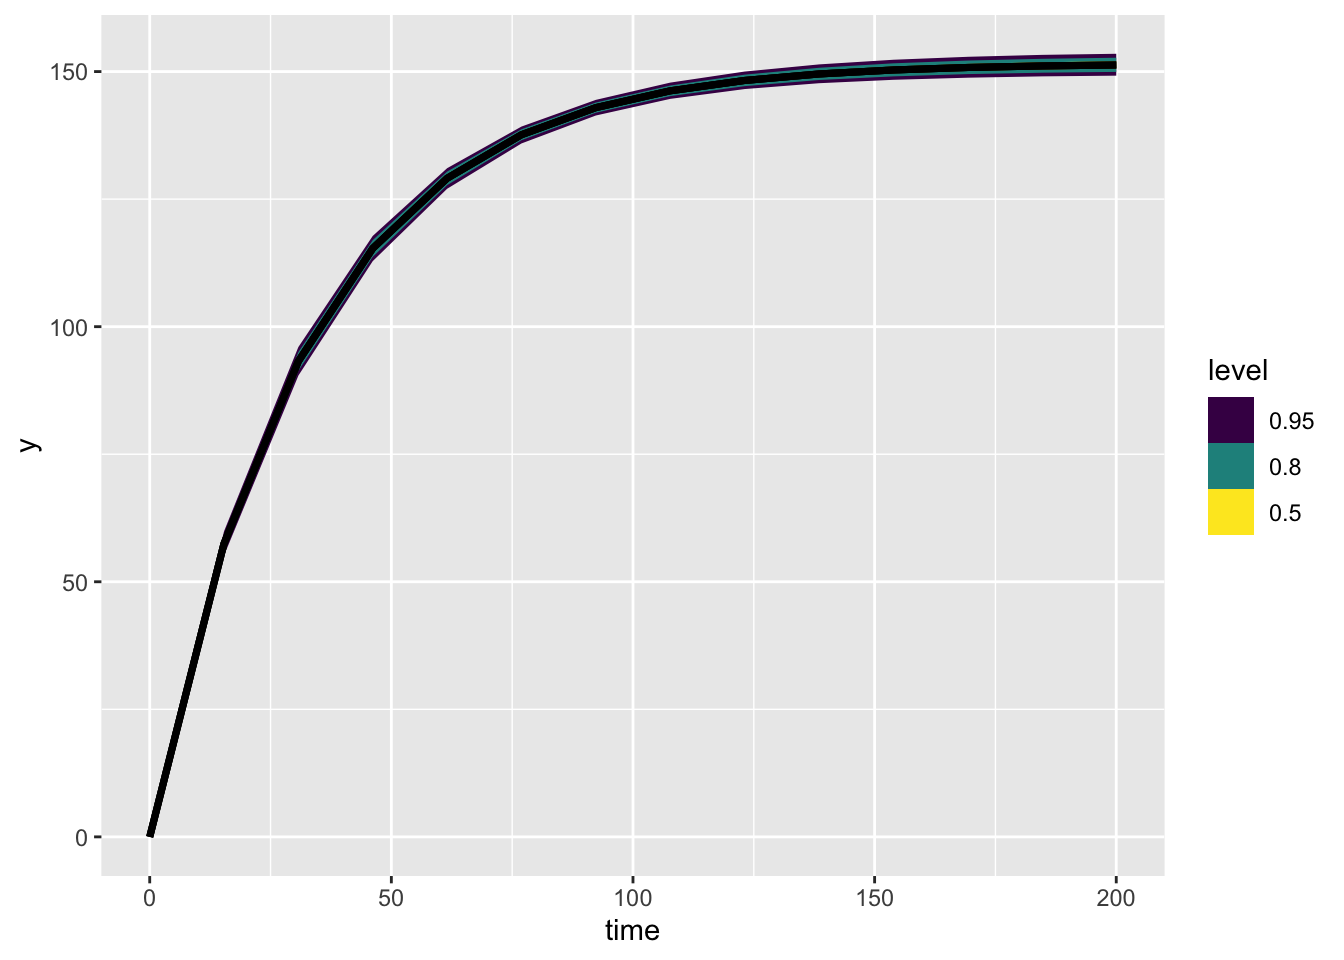
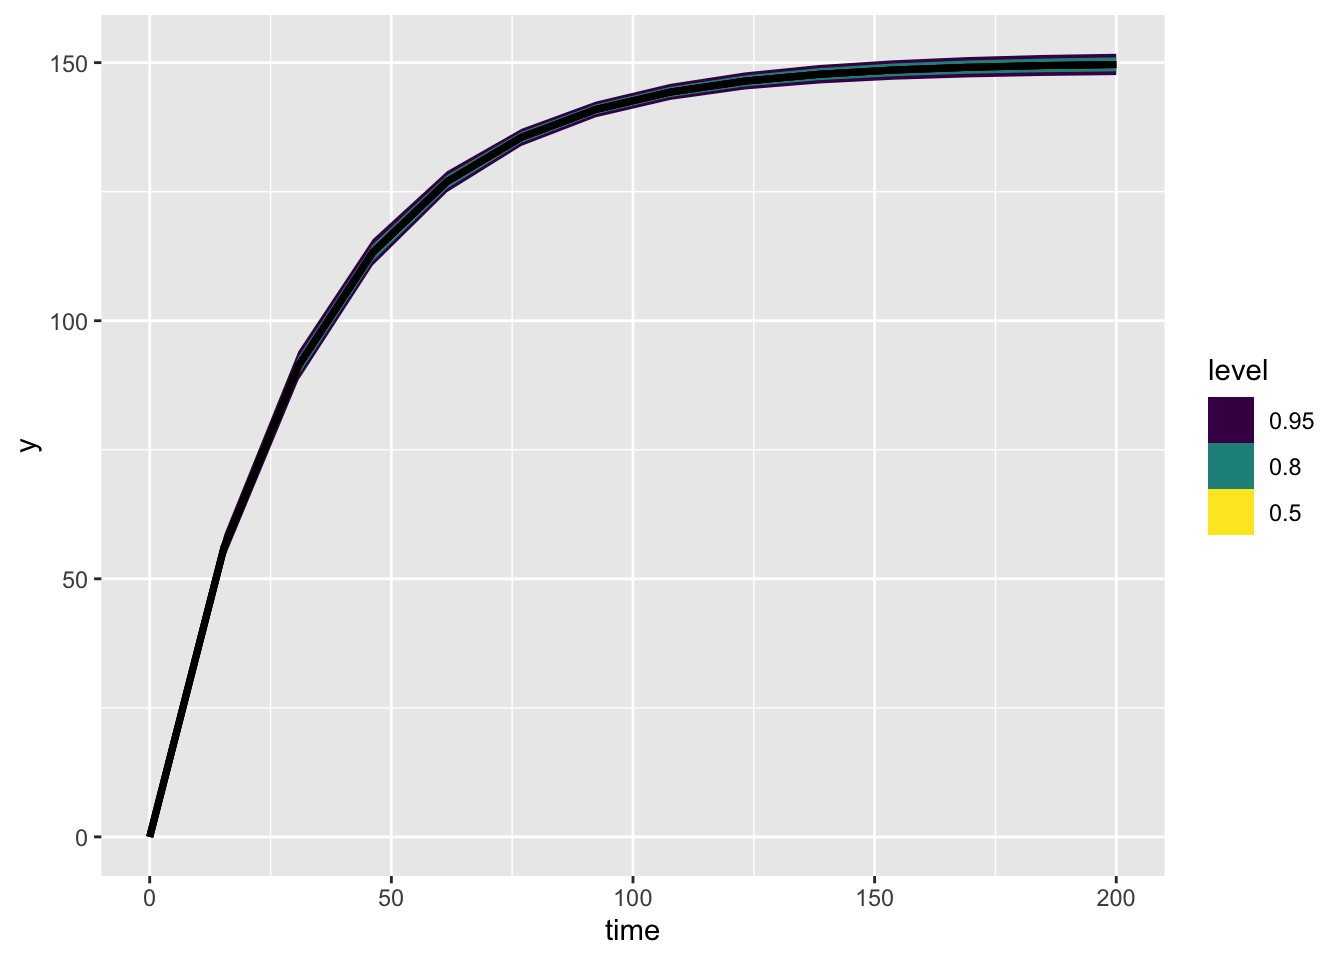
correct header image

diff --git a/docs/posts/2022-10-14-growth_curve_measurement_error/index.html b/docs/posts/2022-10-14-growth_curve_measurement_error/index.html
@@ -307,14 +307,14 @@ L_t = L_\infty - (L_\infty - L_0)e^{-rt}
 <div class="cell-output cell-output-stdout">
 <pre><code>Running MCMC with 4 parallel chains...
 
-Chain 1 finished in 0.1 seconds.
-Chain 2 finished in 0.1 seconds.
-Chain 3 finished in 0.2 seconds.
-Chain 4 finished in 0.2 seconds.
+Chain 1 finished in 0.3 seconds.
+Chain 2 finished in 0.3 seconds.
+Chain 3 finished in 0.3 seconds.
+Chain 4 finished in 0.3 seconds.
 
 All 4 chains finished successfully.
-Mean chain execution time: 0.1 seconds.
-Total execution time: 0.5 seconds.</code></pre>
+Mean chain execution time: 0.3 seconds.
+Total execution time: 0.6 seconds.</code></pre>
 </div>
 <div class="sourceCode cell-code" id="cb6"><pre class="sourceCode r code-with-copy"><code class="sourceCode r"><span id="cb6-1"><a href="#cb6-1" aria-hidden="true" tabindex="-1"></a>one_tree_post<span class="sc">$</span><span class="fu">summary</span>() <span class="sc">|&gt;</span> </span>
 <span id="cb6-2"><a href="#cb6-2" aria-hidden="true" tabindex="-1"></a>  knitr<span class="sc">::</span><span class="fu">kable</span>()</span></code><button title="Copy to Clipboard" class="code-copy-button"><i class="bi"></i></button></pre></div>
@@ -349,51 +349,51 @@ Total execution time: 0.5 seconds.</code></pre>
 <tbody>
 <tr class="odd">
 <td style="text-align: left;">lp__</td>
-<td style="text-align: right;">-81.3533547</td>
-<td style="text-align: right;">-81.0352000</td>
-<td style="text-align: right;">1.3015203</td>
-<td style="text-align: right;">1.0923056</td>
-<td style="text-align: right;">-83.9343300</td>
-<td style="text-align: right;">-79.9193950</td>
-<td style="text-align: right;">1.002236</td>
-<td style="text-align: right;">1626.969</td>
-<td style="text-align: right;">2329.101</td>
+<td style="text-align: right;">-81.8860891</td>
+<td style="text-align: right;">-81.5629000</td>
+<td style="text-align: right;">1.2657731</td>
+<td style="text-align: right;">0.9996431</td>
+<td style="text-align: right;">-84.3295600</td>
+<td style="text-align: right;">-80.5472350</td>
+<td style="text-align: right;">1.003900</td>
+<td style="text-align: right;">1703.367</td>
+<td style="text-align: right;">2248.792</td>
 </tr>
 <tr class="even">
 <td style="text-align: left;">r</td>
-<td style="text-align: right;">0.0310097</td>
-<td style="text-align: right;">0.0310023</td>
-<td style="text-align: right;">0.0010188</td>
-<td style="text-align: right;">0.0010244</td>
-<td style="text-align: right;">0.0294009</td>
-<td style="text-align: right;">0.0327187</td>
-<td style="text-align: right;">1.000457</td>
-<td style="text-align: right;">2233.798</td>
-<td style="text-align: right;">2353.174</td>
+<td style="text-align: right;">0.0304818</td>
+<td style="text-align: right;">0.0304662</td>
+<td style="text-align: right;">0.0009926</td>
+<td style="text-align: right;">0.0009715</td>
+<td style="text-align: right;">0.0289095</td>
+<td style="text-align: right;">0.0321072</td>
+<td style="text-align: right;">1.001307</td>
+<td style="text-align: right;">2264.785</td>
+<td style="text-align: right;">2502.303</td>
 </tr>
 <tr class="odd">
 <td style="text-align: left;">Lmax</td>
-<td style="text-align: right;">151.6287898</td>
-<td style="text-align: right;">151.5870000</td>
-<td style="text-align: right;">1.1356684</td>
-<td style="text-align: right;">1.1008305</td>
-<td style="text-align: right;">149.8148500</td>
-<td style="text-align: right;">153.5360000</td>
-<td style="text-align: right;">1.000559</td>
-<td style="text-align: right;">2300.164</td>
-<td style="text-align: right;">2045.231</td>
+<td style="text-align: right;">149.9838068</td>
+<td style="text-align: right;">149.9775000</td>
+<td style="text-align: right;">1.1024073</td>
+<td style="text-align: right;">1.1037957</td>
+<td style="text-align: right;">148.2009500</td>
+<td style="text-align: right;">151.7842500</td>
+<td style="text-align: right;">1.001047</td>
+<td style="text-align: right;">2435.377</td>
+<td style="text-align: right;">2339.762</td>
 </tr>
 <tr class="even">
 <td style="text-align: left;">sigma_obs</td>
-<td style="text-align: right;">4.4782455</td>
-<td style="text-align: right;">4.4312150</td>
-<td style="text-align: right;">0.5105588</td>
-<td style="text-align: right;">0.4879088</td>
-<td style="text-align: right;">3.7218830</td>
-<td style="text-align: right;">5.3736580</td>
-<td style="text-align: right;">1.002338</td>
-<td style="text-align: right;">2579.079</td>
-<td style="text-align: right;">2293.364</td>
+<td style="text-align: right;">4.5019228</td>
+<td style="text-align: right;">4.4569000</td>
+<td style="text-align: right;">0.5106312</td>
+<td style="text-align: right;">0.4890727</td>
+<td style="text-align: right;">3.7627420</td>
+<td style="text-align: right;">5.4062315</td>
+<td style="text-align: right;">1.000617</td>
+<td style="text-align: right;">2204.440</td>
+<td style="text-align: right;">2327.323</td>
 </tr>
 </tbody>
 </table>
@@ -518,13 +518,13 @@ However sometimes it can be both convenient and more readable to keep the whole 
 <pre><code>Running MCMC with 4 parallel chains...
 
 Chain 1 finished in 0.3 seconds.
-Chain 2 finished in 0.2 seconds.
+Chain 2 finished in 0.3 seconds.
 Chain 3 finished in 0.2 seconds.
 Chain 4 finished in 0.2 seconds.
 
 All 4 chains finished successfully.
-Mean chain execution time: 0.2 seconds.
-Total execution time: 0.4 seconds.</code></pre>
+Mean chain execution time: 0.3 seconds.
+Total execution time: 0.5 seconds.</code></pre>
 </div>
 <div class="sourceCode cell-code" id="cb16"><pre class="sourceCode r code-with-copy"><code class="sourceCode r"><span id="cb16-1"><a href="#cb16-1" aria-hidden="true" tabindex="-1"></a>one_tree_predictions <span class="sc">|&gt;</span> </span>
 <span id="cb16-2"><a href="#cb16-2" aria-hidden="true" tabindex="-1"></a>  <span class="fu">spread_rvars</span>(Lt_predicted[i]) <span class="sc">|&gt;</span> </span>

diff --git a/docs/blog.html b/docs/blog.html
@@ -769,9 +769,9 @@ Andrew
 </a>
 </div>
 </div>
-<div class="quarto-post image-right" data-index="13" data-categories="stan,simulation" data-listing-date-sort="1665720000000" data-listing-file-modified-sort="1677601640266" data-listing-reading-time-sort="6.465">
+<div class="quarto-post image-right" data-index="13" data-categories="stan,simulation" data-listing-date-sort="1665720000000" data-listing-file-modified-sort="1677601839765" data-listing-reading-time-sort="6.465">
 <div class="thumbnail">
-<p><a href="./posts/2022-10-14-growth_curve_measurement_error/index.html"> <img src="./posts/2022-10-14-growth_curve_measurement_error/gq_fig-2.png" class="thumnail-image"> </a></p>
+<p><a href="./posts/2022-10-14-growth_curve_measurement_error/index.html"> <img src="./posts/2022-10-14-growth_curve_measurement_error/gq_fig-1.png" class="thumnail-image"> </a></p>
 </div>
 <div class="body">
 <a href="./posts/2022-10-14-growth_curve_measurement_error/index.html">
